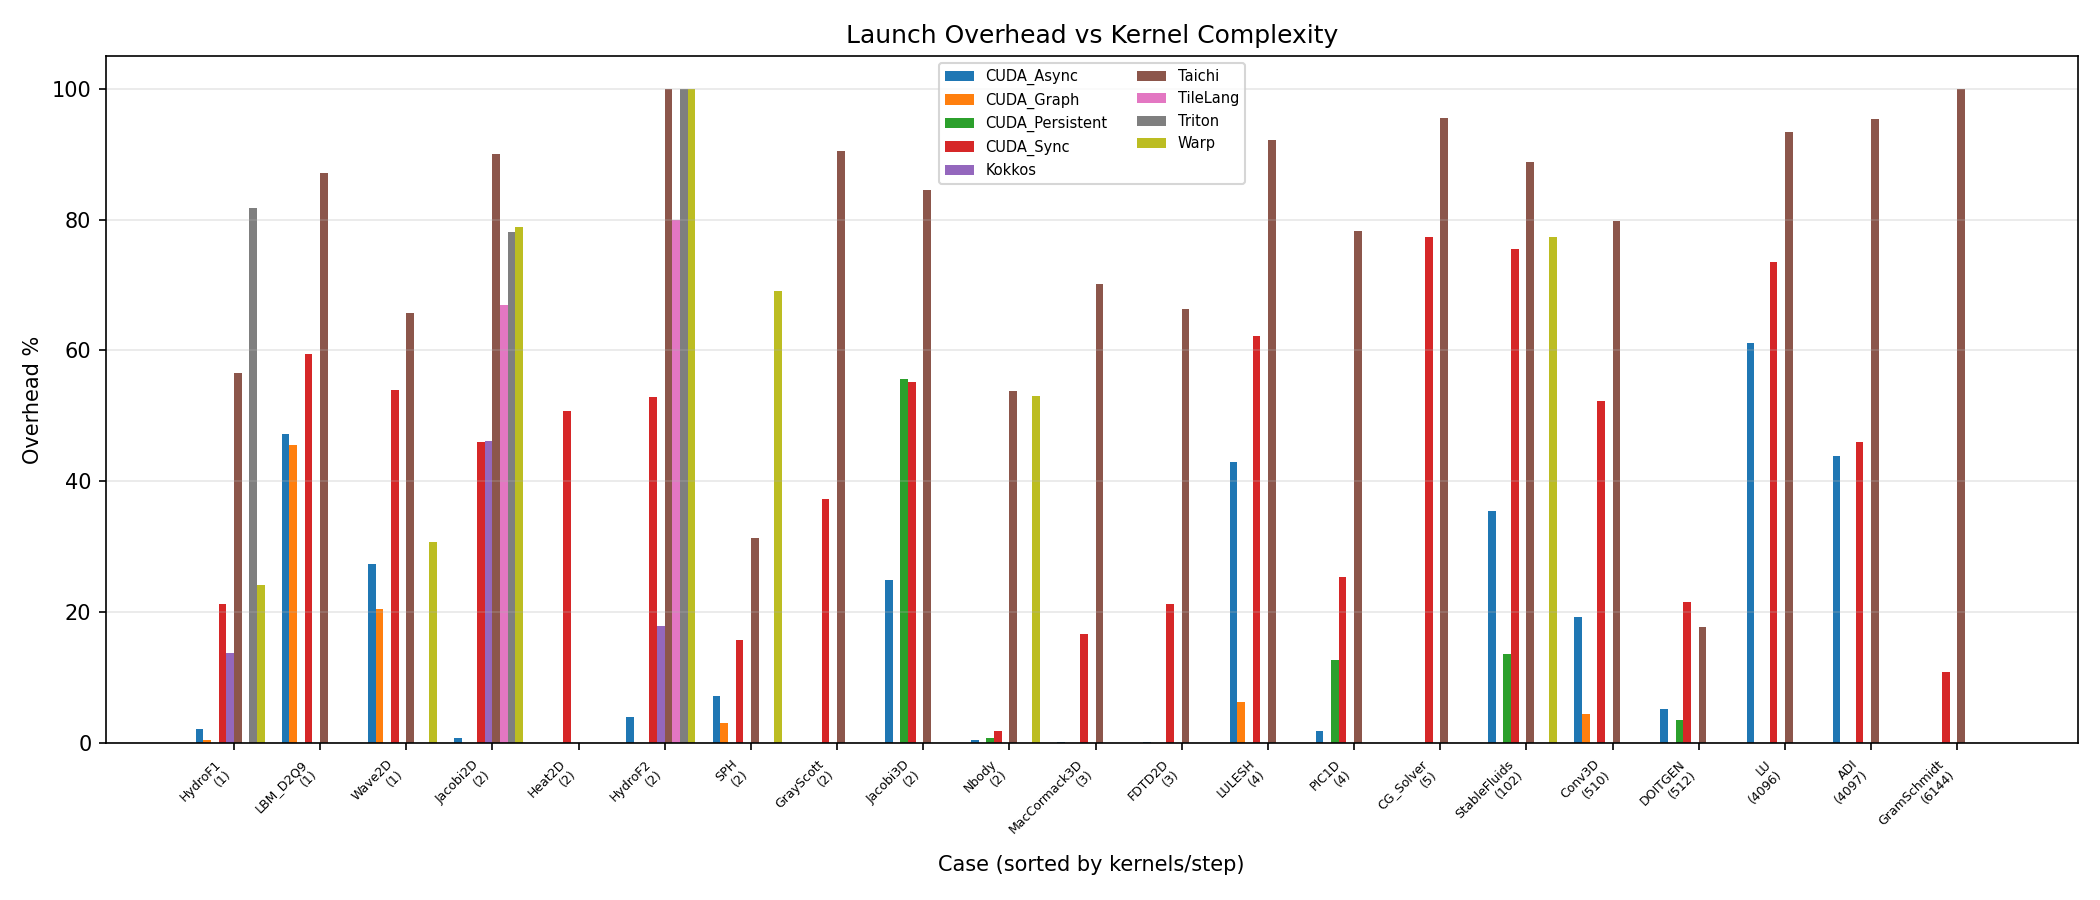
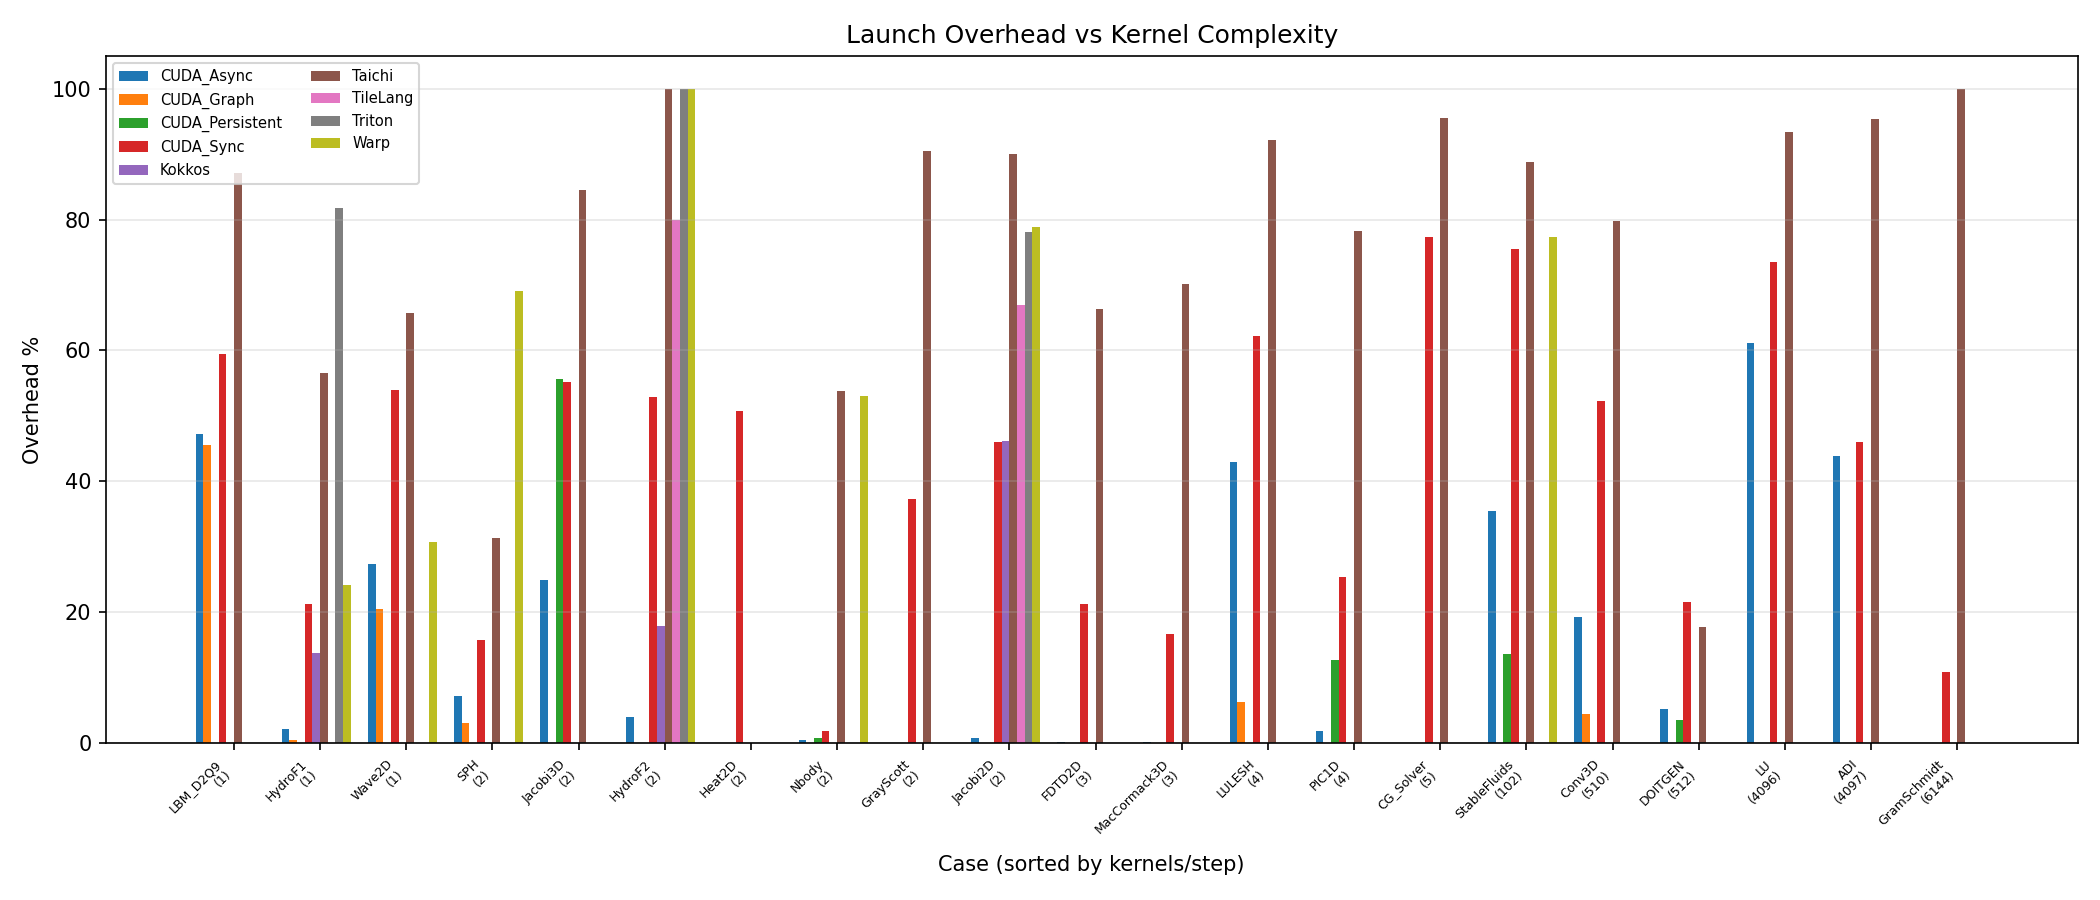
Fix warmup contract, add TileLang to decomposition plot, update docs
1. run_matrix.py: all DSL timing paths now use >=5 warmup runs before
   10 timed runs, matching plan-generated.md AC-1 contract. Previously
   only 1 warmup run.

2. plot_matrix.py: added tilelang_us column to dsl_decomposition.csv and
   TileLang series to the decomposition bar chart. Jacobi2D TileLang
   values now appear: 22.9 us (256), 186.3 us (4096).

3. F1 BENCHMARK_RESULTS.md: updated TileLang section to reflect current
   state — C8 N/A (kernel mismatch), C9 timing works but Inf at 100 steps.

4. Re-timed TileLang C8/C9 with 5 warmup runs. C9: 63.34 us (default),
   66.31 us (20w). 270 CSV rows. Plots regenerated.

diff --git a/benchmark/plot_matrix.py b/benchmark/plot_matrix.py
@@ -123,7 +123,7 @@ def plot2(data, od):
         best_size = None
         for sz in sizes_sorted:
             has_sync = any("Sync" in k and "CUDA" in k for k in times[case][sz])
-            has_dsl = any(k in ("Taichi","Warp","Triton","Kokkos") for k in times[case][sz])
+            has_dsl = any(k in ("Taichi","Warp","Triton","Kokkos","TileLang") for k in times[case][sz])
             if has_sync and has_dsl:
                 best_size = sz; break
         if best_size is None:
@@ -224,11 +224,13 @@ def plot3(data, od):
             taichi = s.get("Taichi")
             warp = s.get("Warp")
             triton = s.get("Triton")
+            tilelang = s.get("TileLang")
             row = {"case":case,"problem_size":size,"gpu_compute_us":f"{gpu_base:.1f}",
                    "cuda_sync_us":f"{sync:.1f}" if sync else "",
                    "taichi_us":f"{taichi:.1f}" if taichi else "",
                    "warp_us":f"{warp:.1f}" if warp else "",
-                   "triton_us":f"{triton:.1f}" if triton else ""}
+                   "triton_us":f"{triton:.1f}" if triton else "",
+                   "tilelang_us":f"{tilelang:.1f}" if tilelang else ""}
             rows.append(row)
             print(f"{case:15s} {size:>8s} {gpu_base:10.1f} "
                   f"{sync if sync else 0:10.1f} "
@@ -236,7 +238,7 @@ def plot3(data, od):
                   f"{warp if warp else 0:10.1f} "
                   f"{triton if triton else 0:10.1f}")
     write_csv(os.path.join(od,"dsl_decomposition.csv"), rows,
-              ["case","problem_size","gpu_compute_us","cuda_sync_us","taichi_us","warp_us","triton_us"])
+              ["case","problem_size","gpu_compute_us","cuda_sync_us","taichi_us","warp_us","triton_us","tilelang_us"])
 
     plt, has_mpl = try_matplotlib()
     if has_mpl and rows:
@@ -244,7 +246,7 @@ def plot3(data, od):
         cases = sorted(set(r["case"] for r in rows), key=lambda c: KERN.get(c,0))
         fig, ax = plt.subplots(figsize=(14, 6))
         x = np.arange(len(cases))
-        cols = [("gpu_compute_us","GPU compute"),("cuda_sync_us","CUDA Sync"),("taichi_us","Taichi"),("warp_us","Warp")]
+        cols = [("gpu_compute_us","GPU compute"),("cuda_sync_us","CUDA Sync"),("taichi_us","Taichi"),("warp_us","Warp"),("tilelang_us","TileLang")]
         width = 0.8 / len(cols)
         for i, (col, label) in enumerate(cols):
             vals = [float(next((r[col] for r in rows if r["case"]==c and r[col]), 0)) for c in cases]

diff --git a/benchmark/run_matrix.py b/benchmark/run_matrix.py
@@ -255,7 +255,7 @@ sys.path.insert(0,'{mod_dir}')
 sys.path.insert(0,'{BD}')
 from {mod} import *
 s,y,o={call}
-y();s();y()
+for _w in range(5): s();y()
 ts=[]
 for _ in range(10):
     y();t0=time.perf_counter();s();y()
@@ -308,7 +308,7 @@ sys.path.insert(0,'{BD}')
 import warp as wp; wp.init()
 from {mod} import *
 s,y,o={call}
-y();s();y()
+for _w in range(5): s();y()
 ts=[]
 for _ in range(10):
     y();t0=time.perf_counter();s();y()
@@ -352,7 +352,7 @@ sys.path.insert(0,'{mod_dir}')
 sys.path.insert(0,'{BD}')
 from {mod} import *
 s,y,o={call}
-y();s();y()
+for _w in range(5): s();y()
 ts=[]
 for _ in range(10):
     y();t0=time.perf_counter();s();y()
@@ -399,7 +399,7 @@ sys.path.insert(0,'{BD}')
 from {mod} import *
 import torch
 s,y,o={call}
-y();s();y()
+for _w in range(5): s();y()
 ts=[]
 for _ in range(10):
     y();t0=time.perf_counter();s();y()

diff --git a/benchmark/F1_hydro_shallow_water/BENCHMARK_RESULTS.md b/benchmark/F1_hydro_shallow_water/BENCHMARK_RESULTS.md
@@ -84,8 +84,8 @@ However, the full Osher Riemann solver generates enormous TileLang IR that cause
 TVM JIT compilation to exceed practical time limits (>10 min per kernel). The F2
 refactored version with separate flux/update kernels compiles successfully.
 
-- **Correctness**: TileLang JIT runtime crash during step_fn execution. F1 Osher solver generates TVM IR too complex for the JIT backend. Registered in correctness test (fails with runtime error).
-- **Timing**: N/A row in matrix_results.csv (TileLang JIT crash)
+- **C8 (HydroF1)**: N/A — JIT kernel input count mismatch in transfer kernel. Registered in correctness test and runner; emits N/A rows for both default (6675) and 20w (207234) meshes.
+- **C9 (HydroF2)**: Timing works: 62.76 μs/step (default), 61.45 μs/step (20w). Correctness: produces Inf at 100 steps (simplified Osher solver numerically unstable for long time integration).
 
 ### Not Benchmarked
 
